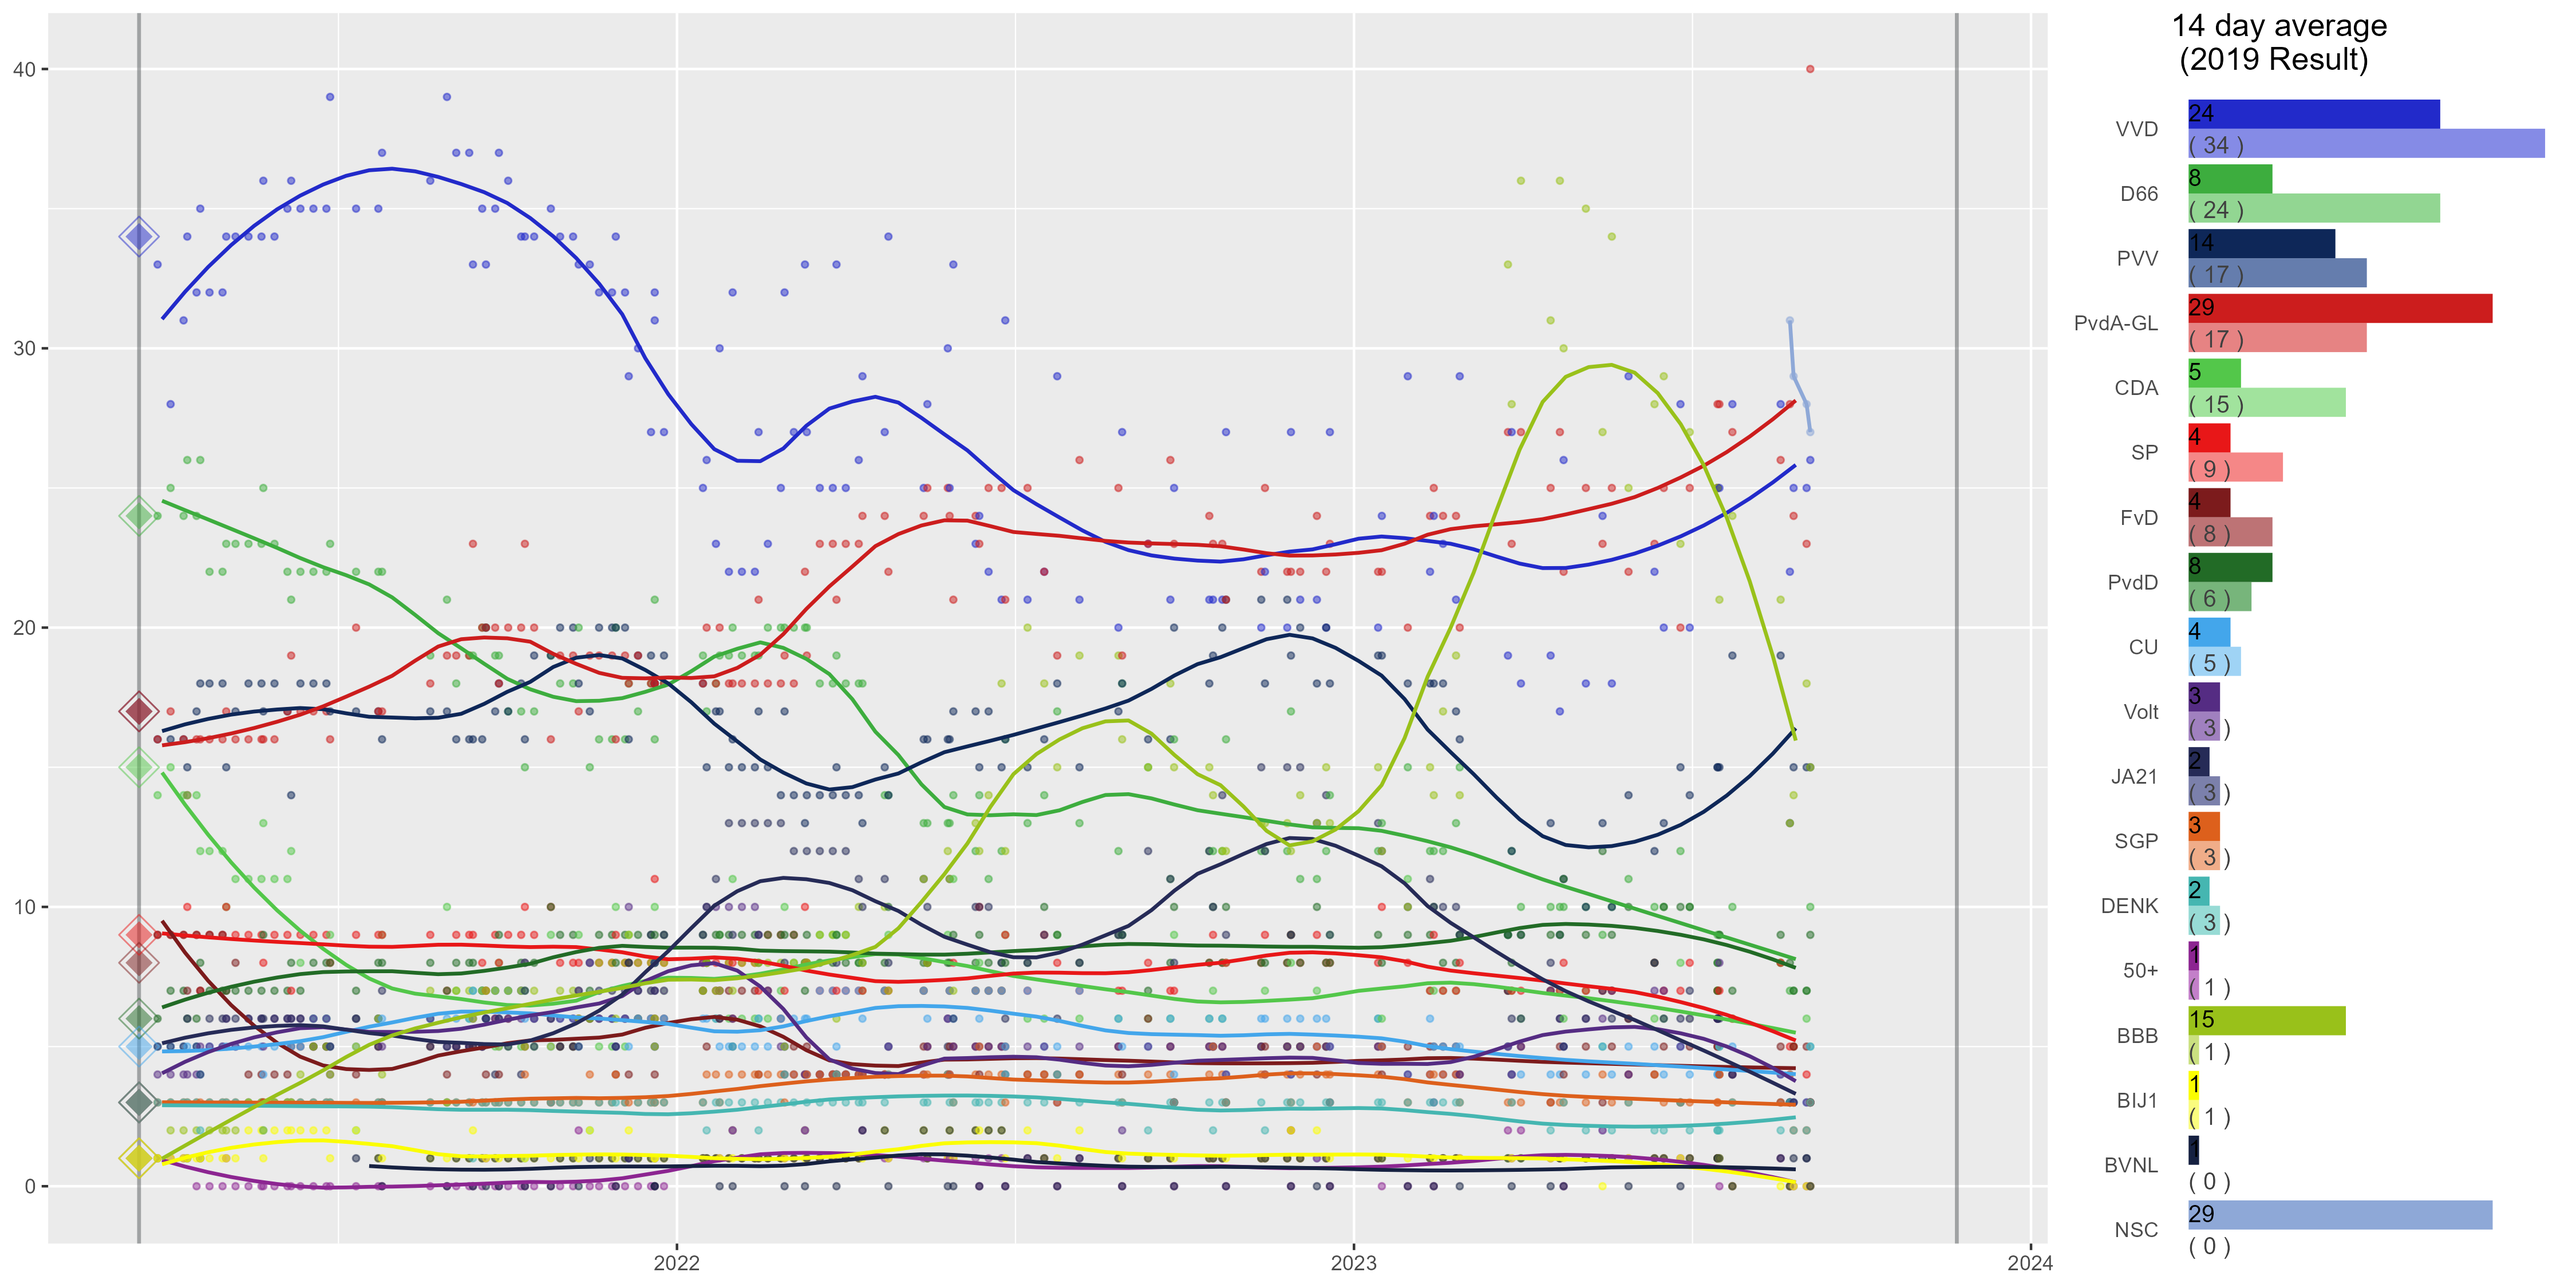
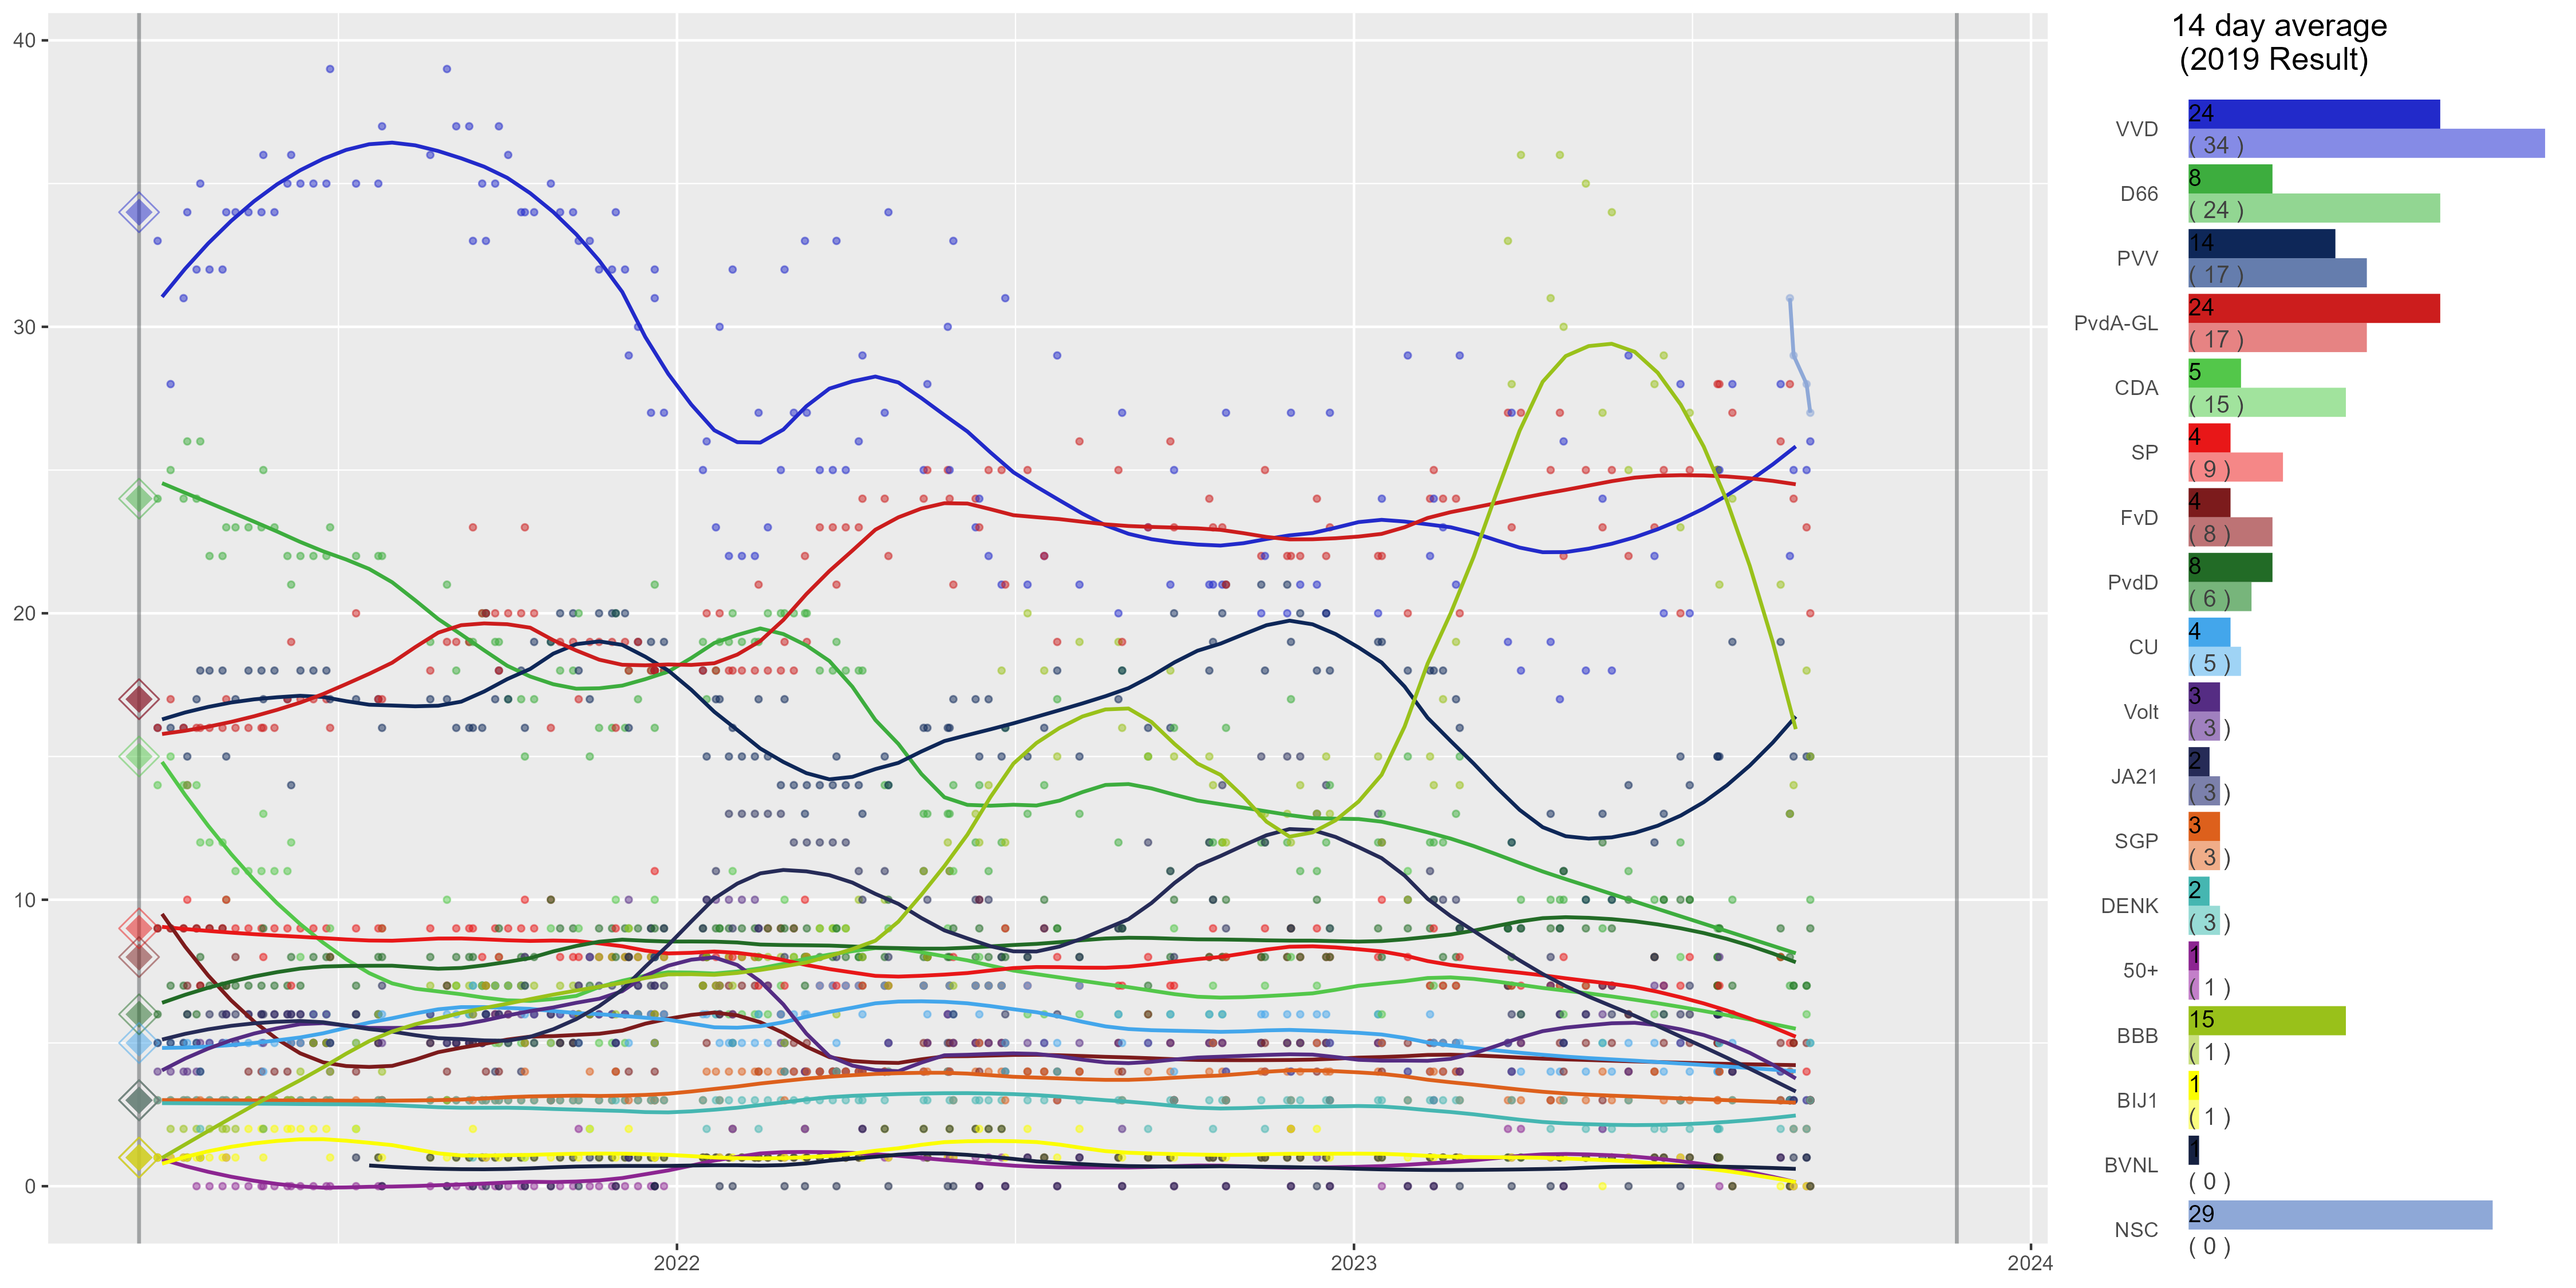
Dutch Fixed

diff --git a/Dutch/data.py b/Dutch/data.py
@@ -60,7 +60,7 @@ for z in parties:
   data2[z] = [x.replace('–',str(np.NaN)) for x in data2[z].astype(str)]
   data2[z] = [x.replace('–',str(np.NaN)) for x in data2[z].astype(str)]
 data2[parties] = data2[parties].astype(float)
-data2['PvdA']=np.where(data2['PvdA']>20, 0, data2['PvdA'])
+data2['PvdA']=np.where(data2['PvdA']>18, 0, data2['PvdA'])
 Fusie=['PvdA','GL']
 data2[Fusie] = data2[Fusie].astype(float)
 data2['PvdA-GL'] = data2[Fusie].sum(axis=1)
